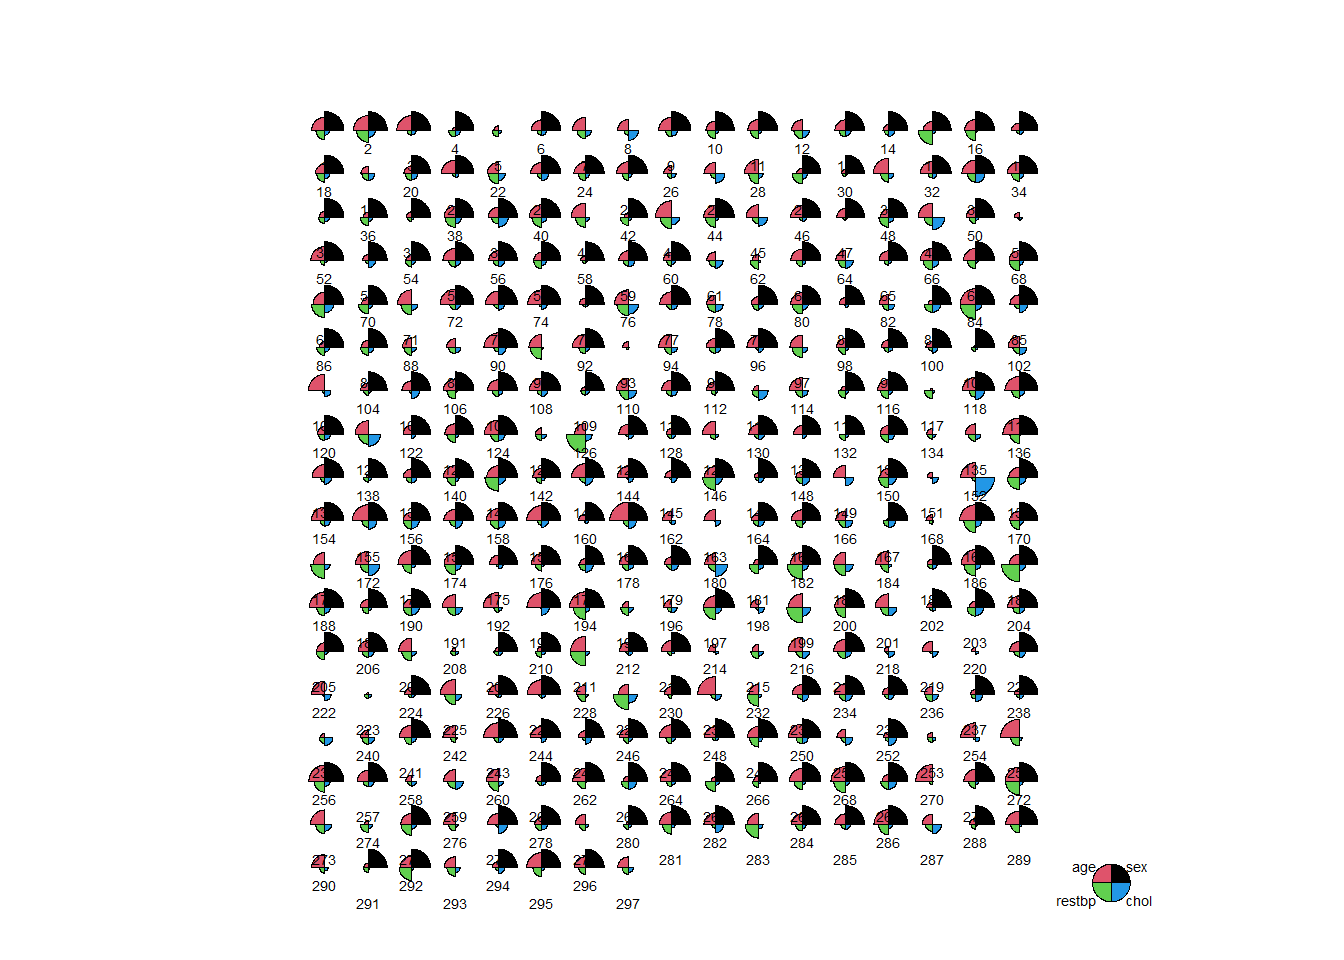
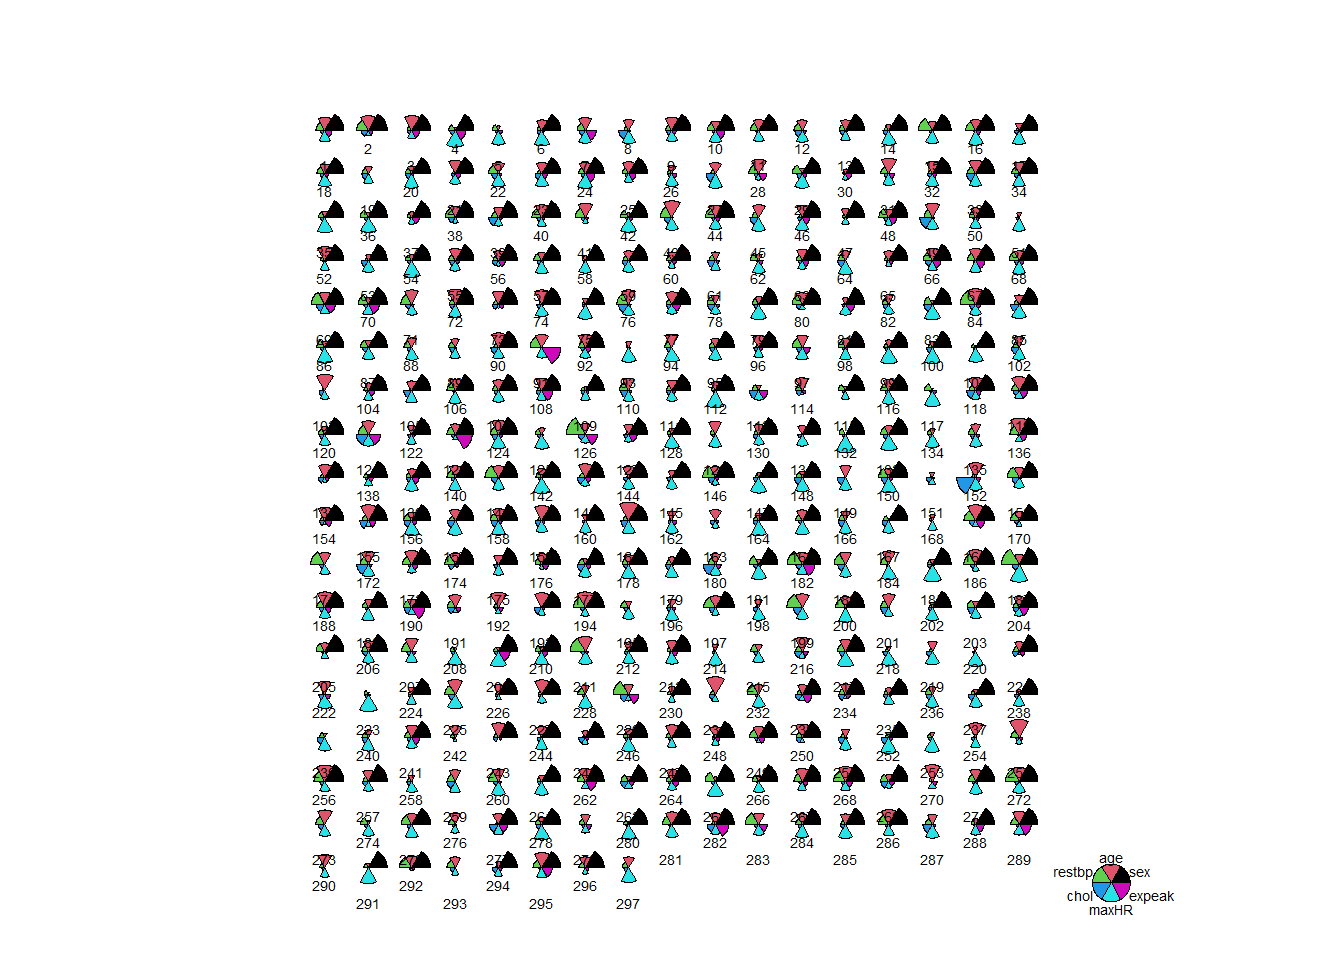
No he acabado de solucionar el programa de las caras

Changed region(s): [[0.2188, 0.125, 0.7812, 0.9062], [0.7812, 0.875, 0.875, 0.9688], [0.25, 0.9062, 0.2812, 0.9375]]

diff --git a/Entrega3.html b/Entrega3.html
@@ -307,7 +307,29 @@ sample estimates:
 </div>
 <p>Caras de Chernoff:</p>
 <div class="cell">
-
+<div class="cell-output cell-output-stdout">
+<pre><code>      age        sex     cp          restbp           chol       fbs    
+ Min.   :29.00   0: 96   1: 23   Min.   : 94.0   Min.   :126.0   0:254  
+ 1st Qu.:48.00   1:201   2: 49   1st Qu.:120.0   1st Qu.:211.0   1: 43  
+ Median :56.00           3: 83   Median :130.0   Median :243.0          
+ Mean   :54.54           4:142   Mean   :131.7   Mean   :247.4          
+ 3rd Qu.:61.00                   3rd Qu.:140.0   3rd Qu.:276.0          
+ Max.   :77.00                   Max.   :200.0   Max.   :564.0          
+ restecg     maxHR       exang       expeak      slope        mves       
+ 0:147   Min.   : 71.0   0:200   Min.   :0.000   1:139   Min.   :0.0000  
+ 1:  4   1st Qu.:133.0   1: 97   1st Qu.:0.000   2:137   1st Qu.:0.0000  
+ 2:146   Median :153.0           Median :0.800   3: 21   Median :0.0000  
+         Mean   :149.6           Mean   :1.056           Mean   :0.6768  
+         3rd Qu.:166.0           3rd Qu.:1.600           3rd Qu.:1.0000  
+         Max.   :202.0           Max.   :6.200           Max.   :3.0000  
+ tHR     fdiag       decade   
+ 3:164   0:160   [29,39): 10  
+ 6: 18   1: 54   [39,49): 70  
+ 7:115   2: 35   [49,59):112  
+         3: 35   [59,69): 92  
+         4: 13   [69,79): 13  
+                              </code></pre>
+</div>
 </div>
 
 </main>
